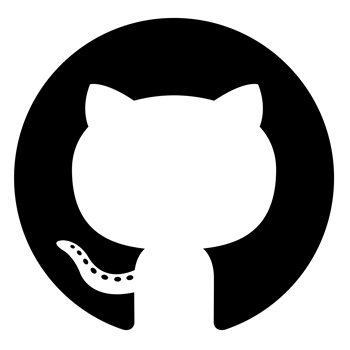
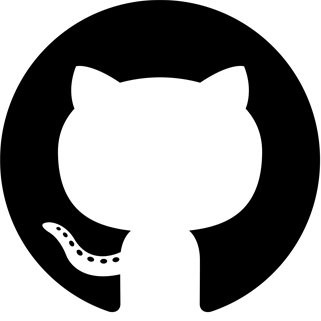
clinet in progress

Changed region(s): [[0.0, 0.0, 1.0, 0.9969]]

diff --git a/client/src/component/About/AboutApp.js b/client/src/component/About/AboutApp.js
@@ -1,0 +1,78 @@
+import React from "react";
+import Modal from "react-modal";
+import "./About.css";
+
+const customStyles = {
+    content: {
+        position: "fixed",
+        top: "60%",
+        left: "50%",
+        width: "800px",
+        height: "540px",
+        transform: "translate(-50%,-50%)",
+        overflow: "none",
+        border: "0px",
+    },
+};
+
+const AboutApp = ({ appModalOpen, closeAppModal }) => {
+    return (
+        <div>
+            <Modal
+                isOpen={appModalOpen}
+                onRequestClose={closeAppModal}
+                style={customStyles}
+            >
+                <div className='wrapper'>
+                    <div className='form-wrapper'>
+                        <h2 className='title'>WHAT IS CAL-CULATOR?</h2>
+                        {/* <form onSubmit={handleSubmit} noValidate> */}
+                        <div className='divider2'></div>
+                        <div className='desc'>Cal-culator is a web application </div>
+                        <div className='divider2'></div>
+                        <div className='choikyung'>
+                            <div>
+                                <div className='hwaejang' htmlFor='hwaejang'><center>회장</center></div>
+                                <div>
+                                    {/* <img src={philip} /> */}
+                                    <div className='desc'>Name: PHILLIP CHOI</div>
+                                    <div className='desc'>Position: Full-stack</div>
+                                </div>
+                            </div>
+                            <div>
+                                <div className='gongjangjang' htmlFor='gongjangjang'><center>공장장</center></div>
+                                <div>
+                                    {/* <img src={douhyun} /> */}
+                                    <div className='desc'>Name: D.H KYUNG</div>
+                                    <div className='desc'>Position: Front-end</div>
+                                </div>
+                            </div>
+                        </div>
+                        <div className='divider2'></div>
+
+                        <div className='kims'>
+                            <div>
+                                <div className='bujang' htmlFor='bujang'><center>부장</center></div>
+                                <div>
+                                    {/* <img src={junseob} /> */}
+                                    <div className='desc'>Name: JUNSEOB KIM</div>
+                                    <div className='desc'>Position: Full-stack</div>
+                                </div>
+                            </div>
+                            <div>
+                                <div className='employee' htmlFor='employee'><center>사원</center></div>
+                                <div>
+                                    {/* <img src={sohyun} /> */}
+                                    <div className='desc'>Name: SOHYUN KIM</div>
+                                    <div className='desc'>Position: Front-end</div>
+                                </div>
+                            </div>
+                        </div>
+                    </div>
+                </div>
+            </Modal>
+        </div >
+    )
+}
+
+export default AboutApp;

diff --git a/client/src/component/Login.js b/client/src/component/Login.js
@@ -98,60 +98,6 @@ const Login = ({
   // };
 
   return (
-<<<<<<< HEAD
-    <div>
-      <Modal
-        className='loginModal'
-        isOpen={loginModalOpen}
-        onRequestClose={closeLoginModal}
-        contentLabel="Login Modal"
-      >
-        <div className="wrapper">
-          <div className="form-wrapper">
-            <h2 className="title">LOGIN</h2>
-            <form onSubmit={handleSubmit} noValidate>
-              <div className="email">
-                <label htmlFor="email">EMAIL</label>
-                <input
-                  placeholder={""}
-                  type="email"
-                  name="email"
-                  onChange={handleChange}
-                  noValidate
-                />
-                {errors.email.length > 0 && (
-                  <span className="error">{errors.email}</span>
-                )}
-              </div>
-              <div className="password">
-                <label htmlFor="password">PASSWORD</label>
-                <input
-                  placeholder={""}
-                  type="password"
-                  name="password"
-                  onChange={handleChange}
-                  noValidate
-                />
-                {errors.password.length > 0 && (
-                  <span className="error">{errors.password}</span>
-                )}
-              </div>
-              <div className="button-div">
-                <span className="submit">
-                  <Button raised onClick={openSignupModal}>
-                    Create
-                  </Button>
-                </span>
-                <span className="loginnn">
-                  <Button type="submit" raised>
-                    LOG IN
-                  </Button>
-                </span>
-              </div>
-            </form>
-            {/* <button onClick={handleGoogleLogin}>Google Login</button> */}
-          </div>
-=======
     <Modal
       className='login'
       isOpen={loginModalOpen}
@@ -181,7 +127,6 @@ const Login = ({
               <Button onClick={openSignupModal} style={{ width: '276.5px' }} >CREATE</Button>
             </div>
           </form>
->>>>>>> login/signup completed
         </div>
       </div>
     </Modal>

diff --git a/client/src/index.css b/client/src/index.css
@@ -13,8 +13,35 @@
   background-color: rgb(235, 245, 232);
 }
 
-:root {
+#summary {
   --mdc-theme-primary: #fb929e;
+  --mdc-theme-secondary: #03dac4;
+  --mdc-theme-error: #aedefc;
+  --mdc-theme-background: #fff;
+  --mdc-theme-surface: #fff;
+  --mdc-theme-on-primary: rgba(255, 255, 255, 1);
+  --mdc-theme-on-secondary: rgba(0, 0, 0, 0.87);
+  --mdc-theme-on-surface: rgba(0, 0, 0, 0.87);
+  --mdc-theme-on-error: #fff;
+  --mdc-theme-text-primary-on-background: rgba(0, 0, 0, 0.87);
+  --mdc-theme-text-secondary-on-background: rgba(0, 0, 0, 0.54);
+  --mdc-theme-text-hint-on-background: rgba(0, 0, 0, 0.38);
+  --mdc-theme-text-disabled-on-background: rgba(0, 0, 0, 0.38);
+  --mdc-theme-text-icon-on-background: rgba(0, 0, 0, 0.38);
+  --mdc-theme-text-primary-on-light: rgba(0, 0, 0, 0.87);
+  --mdc-theme-text-secondary-on-light: rgba(0, 0, 0, 0.54);
+  --mdc-theme-text-hint-on-light: rgba(0, 0, 0, 0.38);
+  --mdc-theme-text-disabled-on-light: rgba(0, 0, 0, 0.38);
+  --mdc-theme-text-icon-on-light: rgba(0, 0, 0, 0.38);
+  --mdc-theme-text-primary-on-dark: white;
+  --mdc-theme-text-secondary-on-dark: rgba(255, 255, 255, 0.7);
+  --mdc-theme-text-hint-on-dark: rgba(255, 255, 255, 0.5);
+  --mdc-theme-text-disabled-on-dark: rgba(255, 255, 255, 0.5);
+  --mdc-theme-text-icon-on-dark: rgba(255, 255, 255, 0.5);
+}
+
+:root {
+  --mdc-theme-primary: #27ac27;
   --mdc-theme-secondary: #03dac4;
   --mdc-theme-error: #aedefc;
   --mdc-theme-background: #fff;

diff --git a/client/src/component/Home/Home.scss b/client/src/component/Home/Home.scss
@@ -54,7 +54,6 @@
         }
       }
 
-      li {
         .perspective-text {
           display: absolute;
           width: 180px;
@@ -121,7 +120,7 @@
         .perspective-line:nth-child(5) {
           left: 145px;
         }
-      }
+
 
       // li {
       //   .trivia {
@@ -150,20 +149,38 @@
       //     }
       //   }
       // }
-      li {
-        .sns {
+
+      .sns {
+        position: absolute;
+        left: 1450px;
+        top: 700px;
+        .github {
           position: absolute;
-          .github {
-            position: absolute;
-            width: 100px;
-            height: 1000px;
-          }
+          width: 50px;
+          height: 50px;
+          opacity: 0.5;
 
-          .facebook {}
+        }
 
-          .insta {}
+        .facebook {
+          position: absolute;
+          width: 50px;
+          height: 50px;
+          left: 70px;
+          opacity: 0.5;
+
+        }
+
+        .insta {
+          position: absolute;
+          width: 50px;
+          height: 50px;
+          left: 140px;
+          opacity: 0.5;
+
         }
       }
+
     }
   }
 

diff --git a/client/src/component/Home/Home.js b/client/src/component/Home/Home.js
@@ -52,13 +52,13 @@ const Home = () => {
         </li>*/}
         <li className='sns'>
           <div>
-            <img className='github' src={github} alt='github'/>
+            <img className='github' src={github} alt='github' />
           </div>
-          <div className='facebook'>
-            <img src={facebook} alt='facebook'/>
+          <div >
+            <img className='facebook' src={facebook} alt='facebook' />
           </div>
-          <div className='insta'>
-            <img src={insta} alt='insta'/>
+          <div >
+            <img className='insta' src={insta} alt='insta' />
           </div>
         </li>
       </ul>

diff --git a/client/src/App.js b/client/src/App.js
@@ -76,20 +76,14 @@ const App = () => {
       <div>
         <Switch>
           <Route
-<<<<<<< HEAD
             path="/about"
             render={() => <About setCurrentPageIndex={setCurrentPageIndex} />}
-=======
-            path='/about'
-            render={() => <About
-              setCurrentPageIndex={setCurrentPageIndex}
-            />}
->>>>>>> login/signup completed
           />
           <Route
             path="/summary"
             render={() => (
               <Summary
+                id='summary'
                 isLogin={isLogin}
                 setCurrentPageIndex={setCurrentPageIndex}
               />

diff --git a/client/src/css_rest.css b/client/src/css_rest.css
@@ -26,7 +26,7 @@ footer, header, hgroup, menu, nav, section {
 	display: block;
 }
 html, body {
-	height: 800px;
+	height: 100%;
 	width: 100%;
 }
 body {
